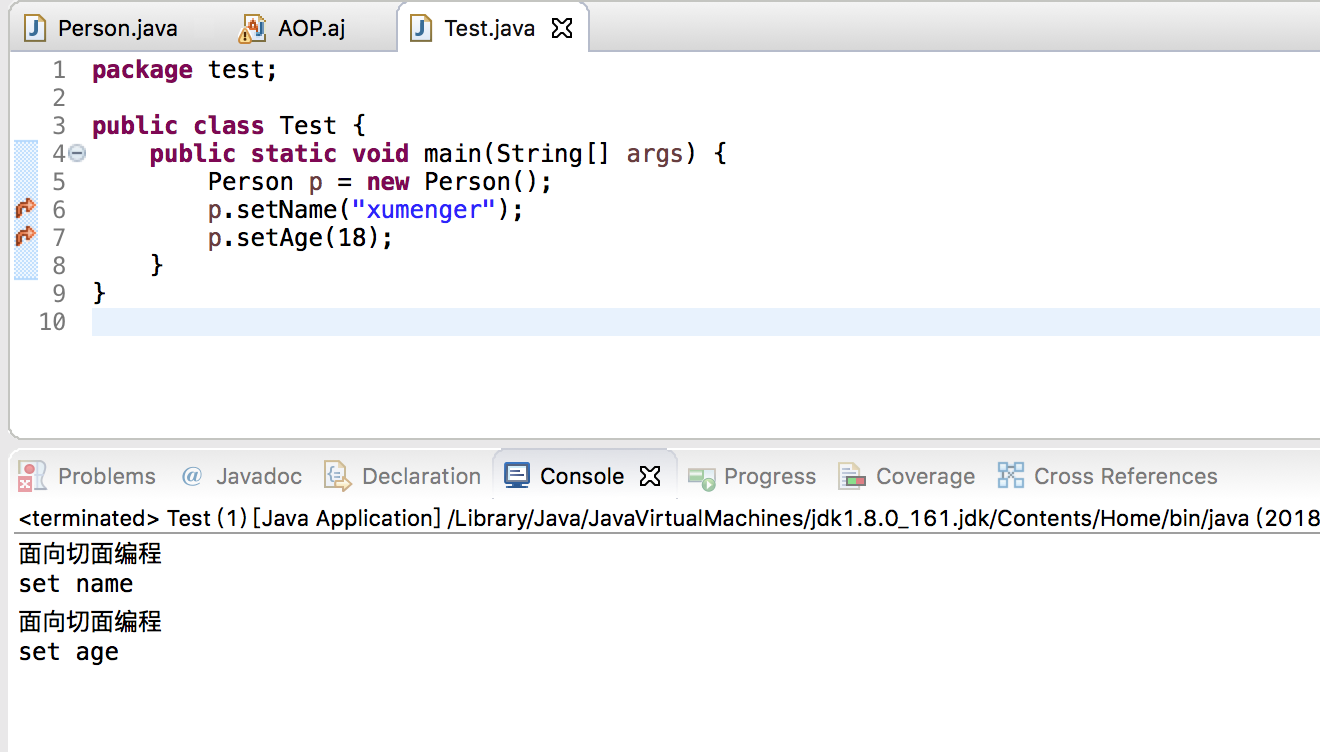
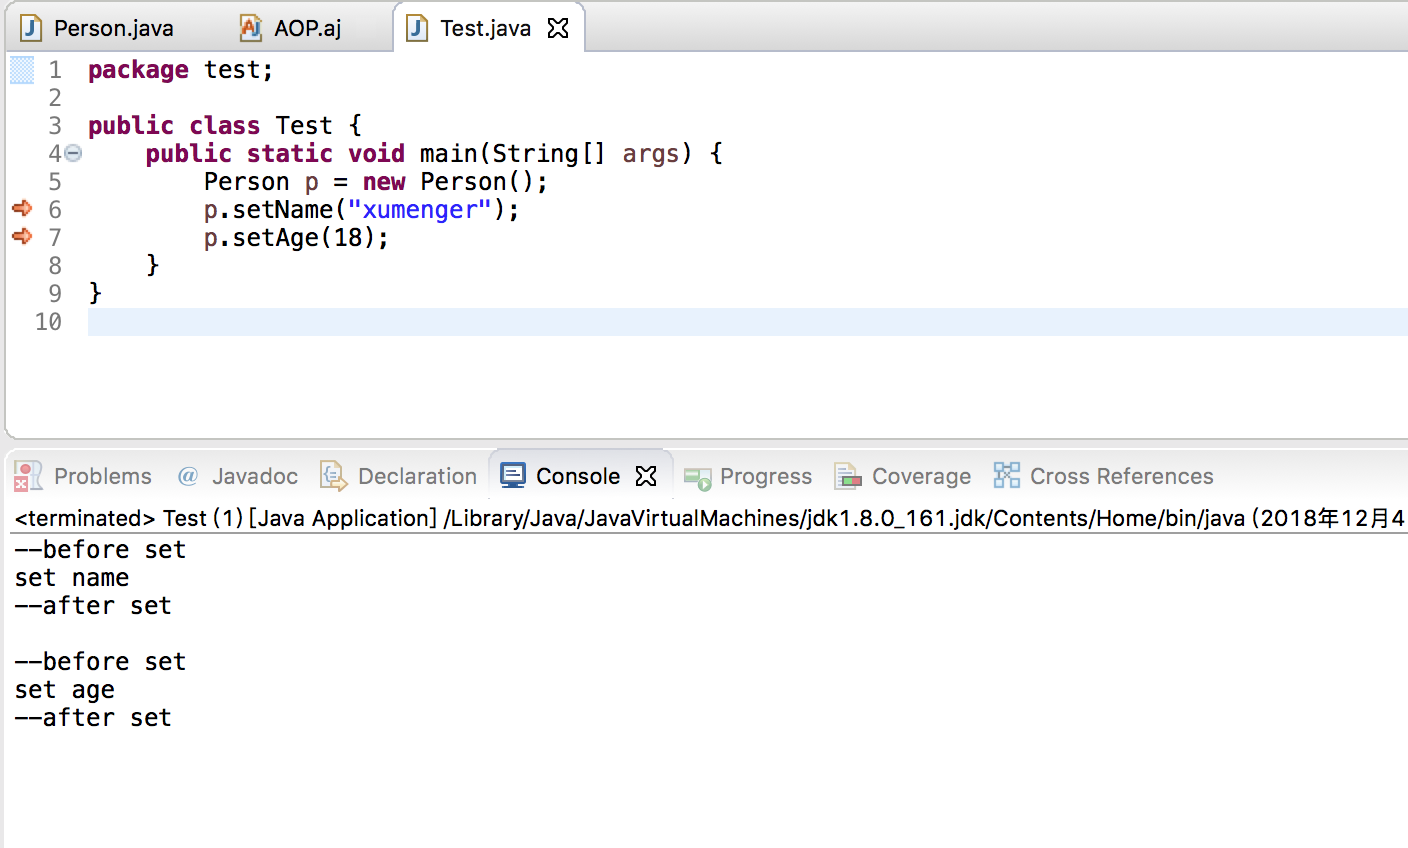
AOP

Changed region(s): [[0.0, 0.4894, 1.0, 0.887], [0.0, 0.0, 1.0, 0.4282], [0.0932, 0.3364, 0.1242, 0.367]]

diff --git a/_posts/2018-12-04-aspectj-aop-spring-20181204.md b/_posts/2018-12-04-aspectj-aop-spring-20181204.md
@@ -80,7 +80,12 @@ public aspect AOP {
         call(public void Person.set*(*));
     
     before(): setXXX() {
-        System.out.println("面向切面编程");
+        System.out.println("--before set");
+    }
+    
+    after(): setXXX() {
+        System.out.println("--after set");
+        System.out.println("");
     }
 }
 ```
